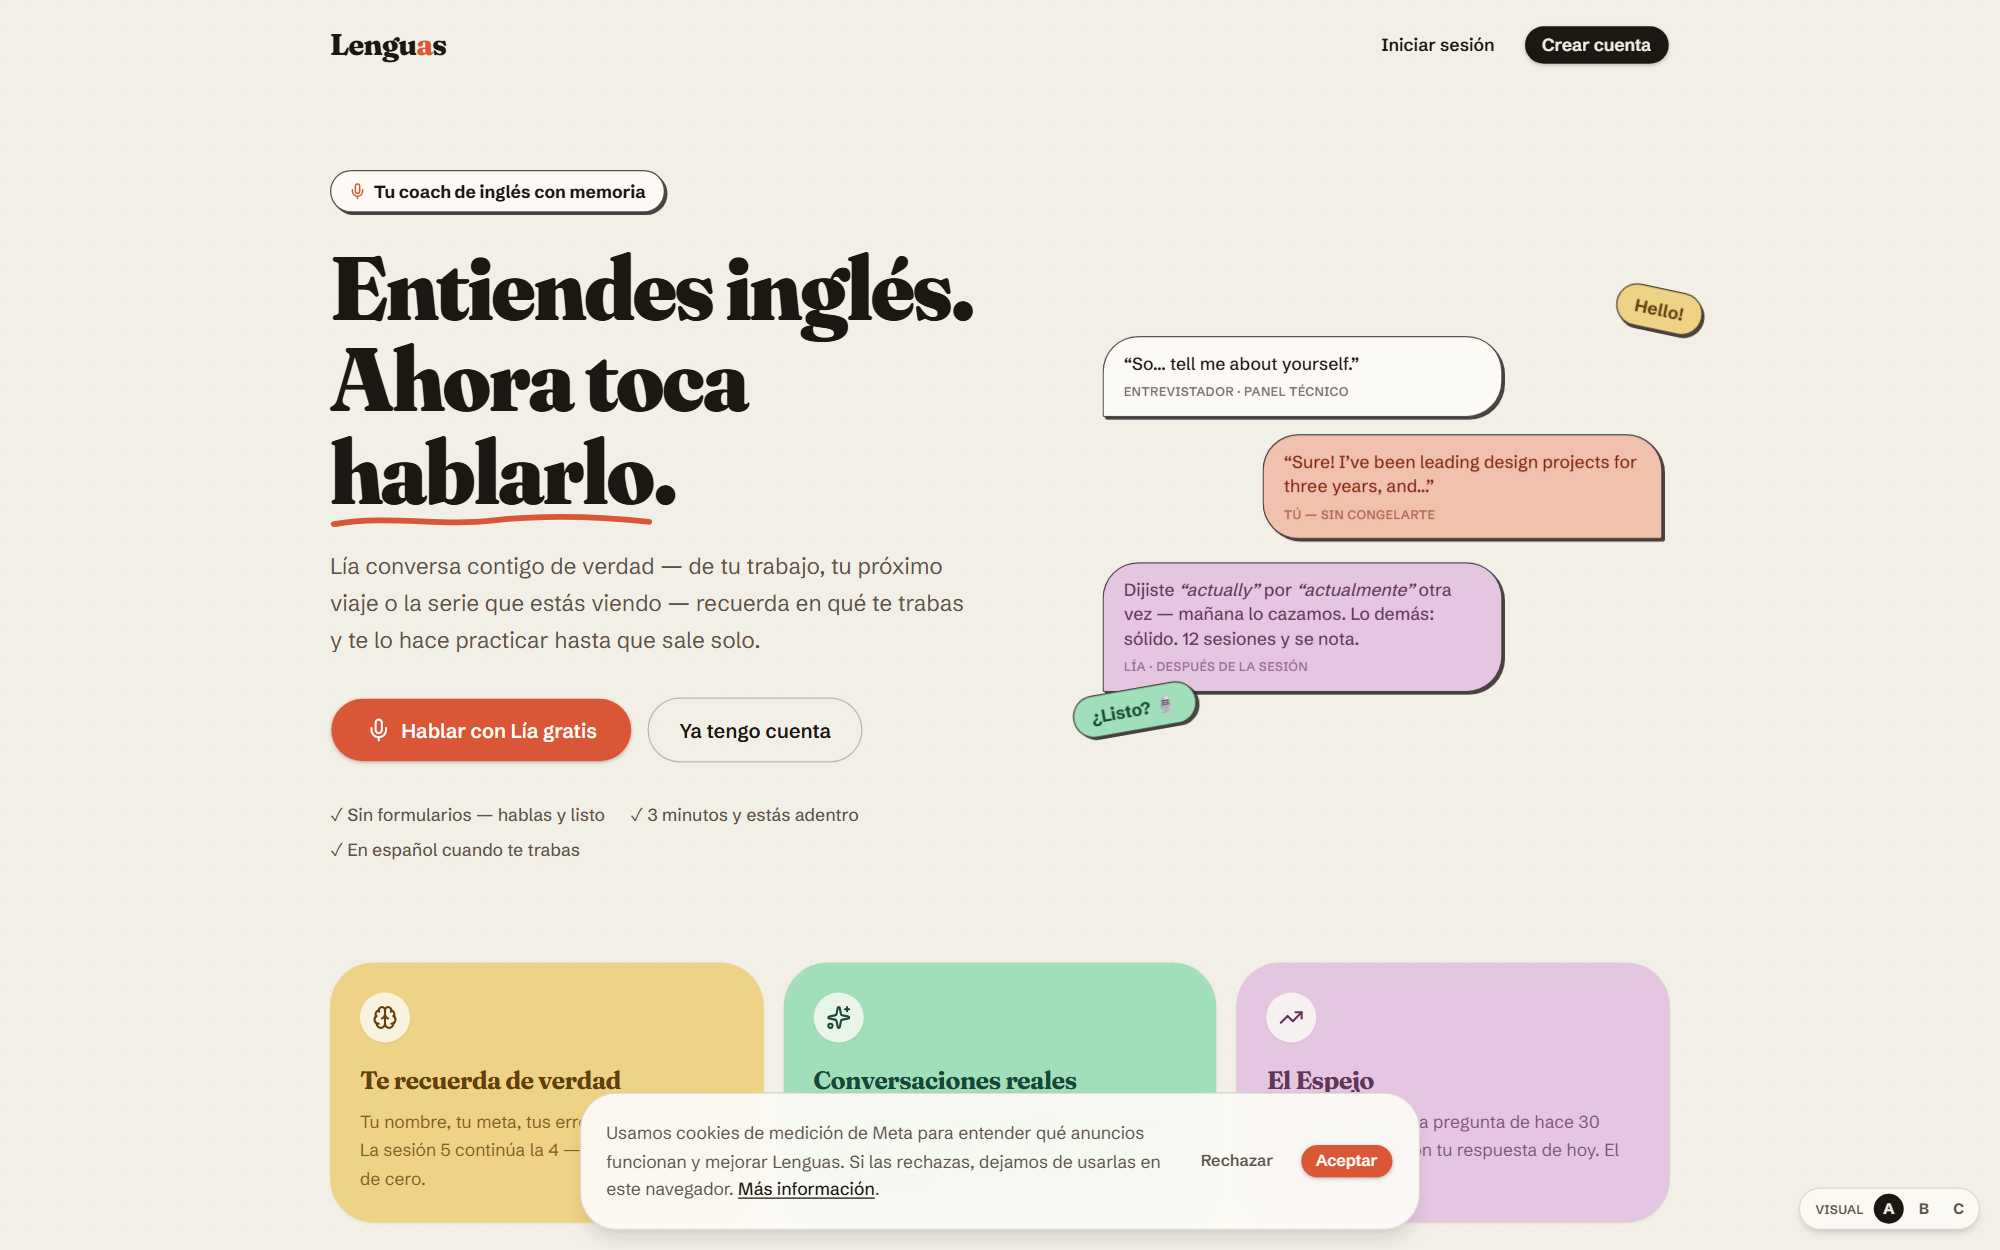
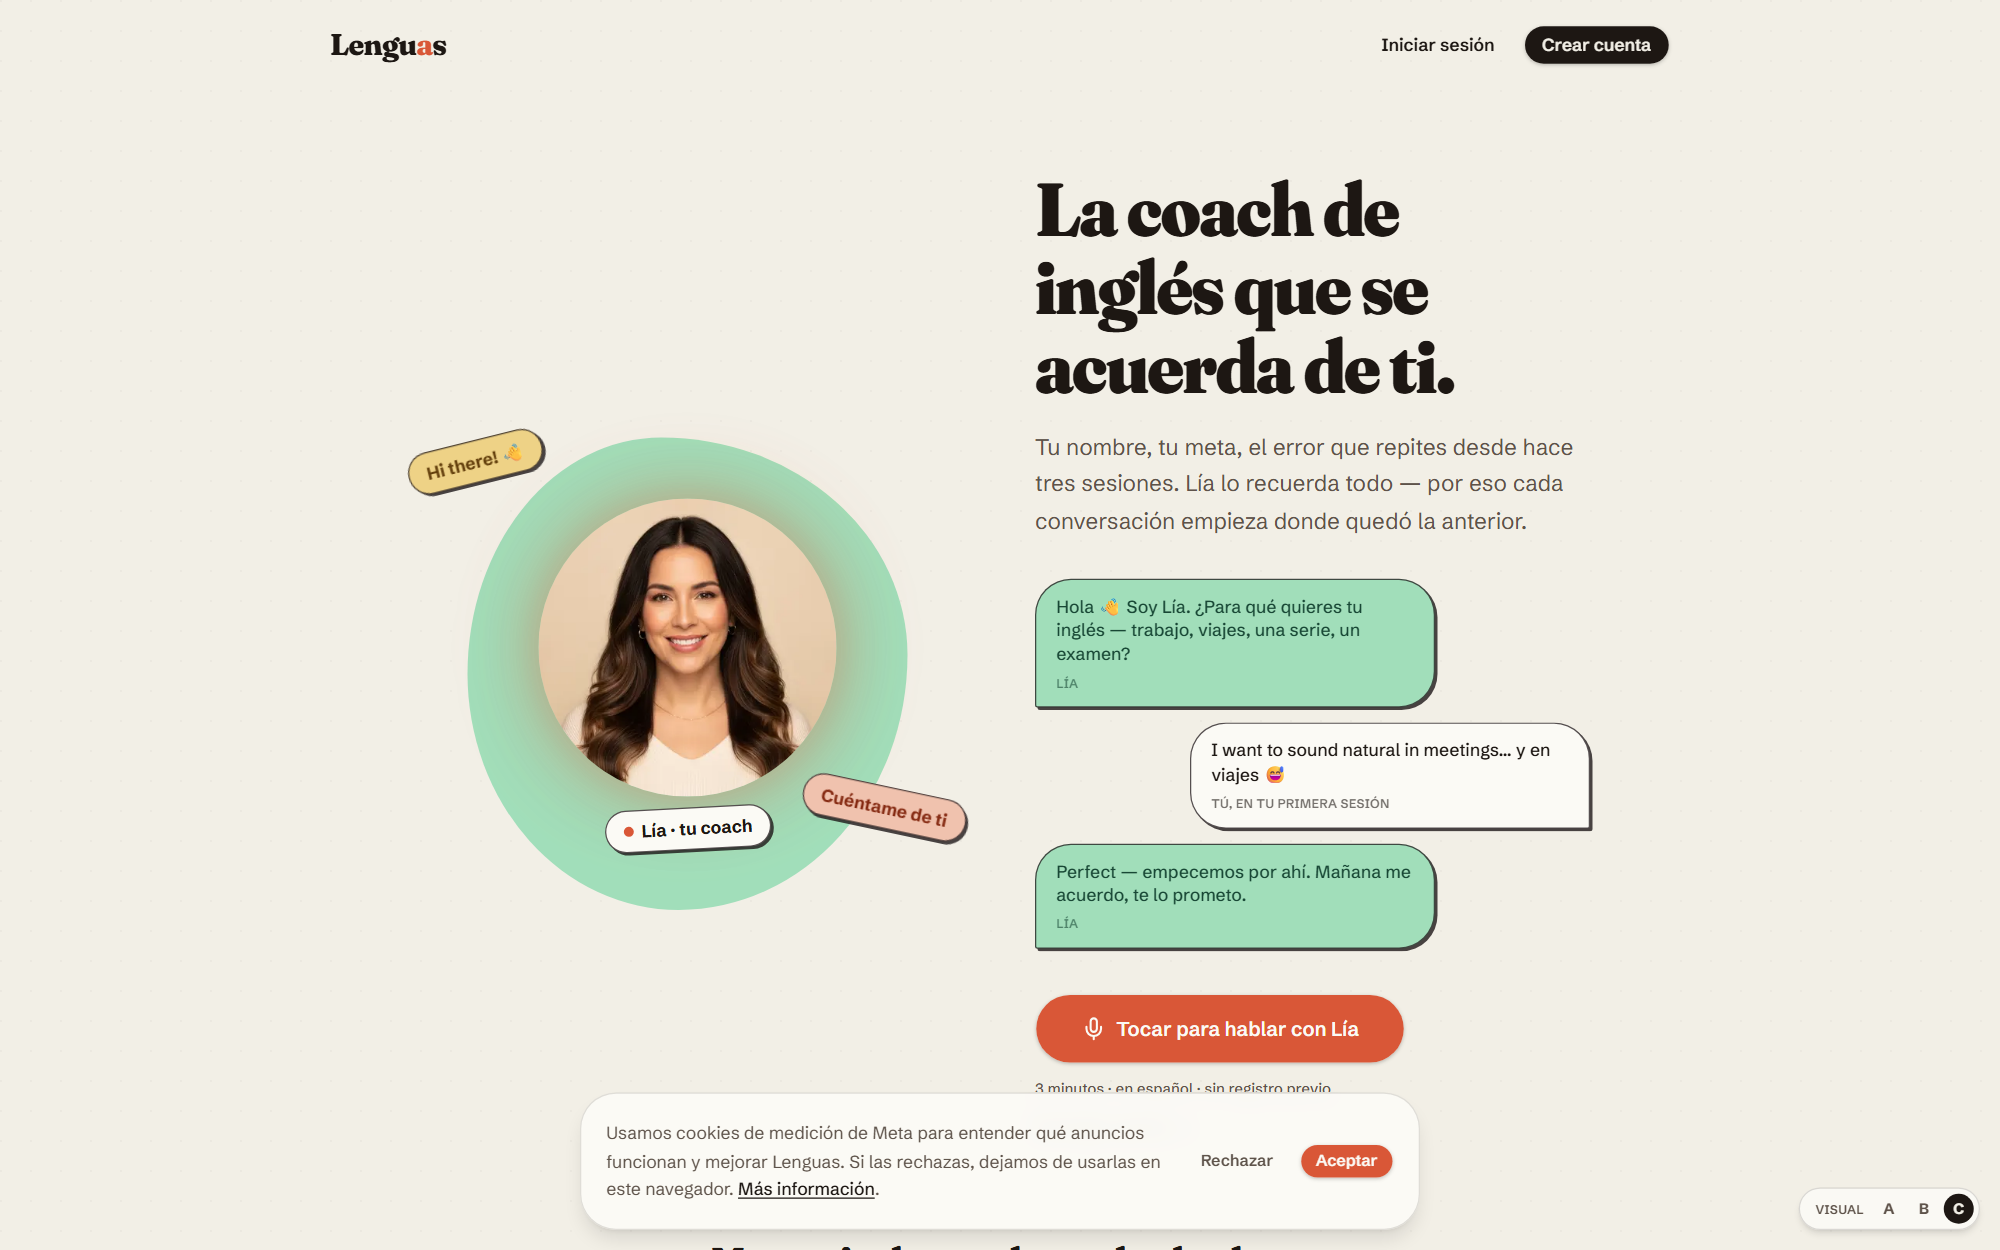
Reordenar destacados y actualizar dominios
- Fanpage AI Manager entra como 3er destacado con caso de estudio
- PollaValeum pasa a la galeria secundaria
- Lia pasa a llamarse Lenguas con dominio lenguas.co (portada recapturada)
- Enlaces live: aprotevid.org, fundeset.org
- CV y trayectoria actualizados; PDFs regenerados

diff --git a/src/data/cv.ts b/src/data/cv.ts
@@ -31,16 +31,16 @@ export interface CvItem {
 export const experience: CvItem[] = [
   {
     title: { es: 'Desarrollador Full-Stack (freelance)', en: 'Full-Stack Developer (freelance)' },
-    org: { es: 'Cliente confidencial — LaunchPro & Lía', en: 'Confidential client — LaunchPro & Lía' },
+    org: { es: 'Cliente confidencial — LaunchPro & Lenguas', en: 'Confidential client — LaunchPro & Lenguas' },
     period: { es: '2025 — presente', en: '2025 — present' },
     bullets: {
       es: [
         'Desarrollé una plataforma que automatiza el lanzamiento de campañas en Tonic, Meta y TikTok Ads con generación de contenido por IA (Claude, Vertex AI Imagen y Veo), reduciendo el flujo de horas a minutos. Next.js, PostgreSQL/Prisma, Docker y Cloud Run.',
-        'Construí un coach conversacional de inglés con audio bidireccional en tiempo real (Gemini Live) y razonamiento con Claude; suscripciones con Stripe y analítica con PostHog.',
+        'Construí Lenguas (lenguas.co), un coach conversacional de inglés con audio bidireccional en tiempo real (Gemini Live) y razonamiento con Claude; suscripciones con Stripe y analítica con PostHog.',
       ],
       en: [
         'Built a platform that automates campaign launches on Tonic, Meta and TikTok Ads with AI-generated content (Claude, Vertex AI Imagen and Veo), cutting the workflow from hours to minutes. Next.js, PostgreSQL/Prisma, Docker and Cloud Run.',
-        'Built a conversational English coach with real-time bidirectional audio (Gemini Live) and Claude-powered reasoning; Stripe subscriptions and PostHog analytics.',
+        'Built Lenguas (lenguas.co), a conversational English coach with real-time bidirectional audio (Gemini Live) and Claude-powered reasoning; Stripe subscriptions and PostHog analytics.',
       ],
     },
   },

diff --git a/src/data/experience.ts b/src/data/experience.ts
@@ -51,7 +51,7 @@ export const milestones: Milestone[] = [
   },
   {
     period: '2025 — 2026',
-    title: { es: 'LaunchPro & Lía — productos con IA', en: 'LaunchPro & Lía — AI products' },
+    title: { es: 'LaunchPro & Lenguas — productos con IA', en: 'LaunchPro & Lenguas — AI products' },
     body: {
       es: 'Plataformas para clientes: campañas de ads generadas con IA multimodal y un coach de inglés con conversación de voz en tiempo real.',
       en: 'Client platforms: ad campaigns generated with multimodal AI and an English coach with real-time voice conversation.',